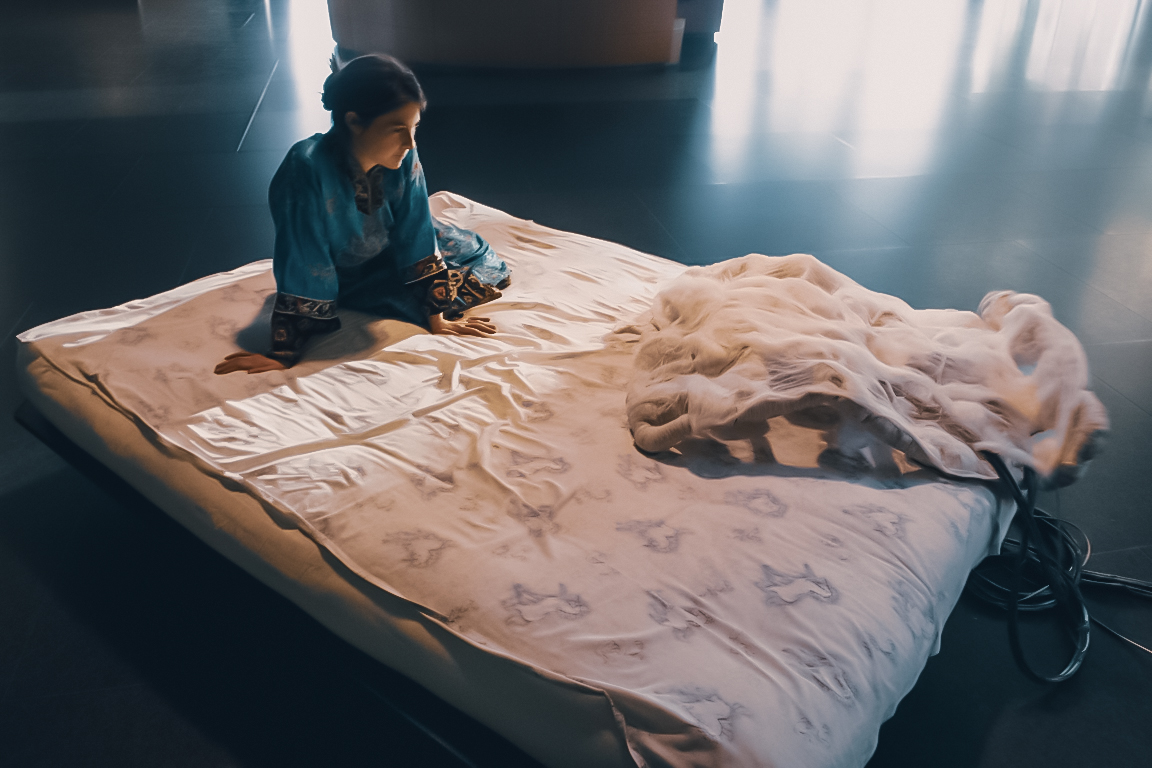
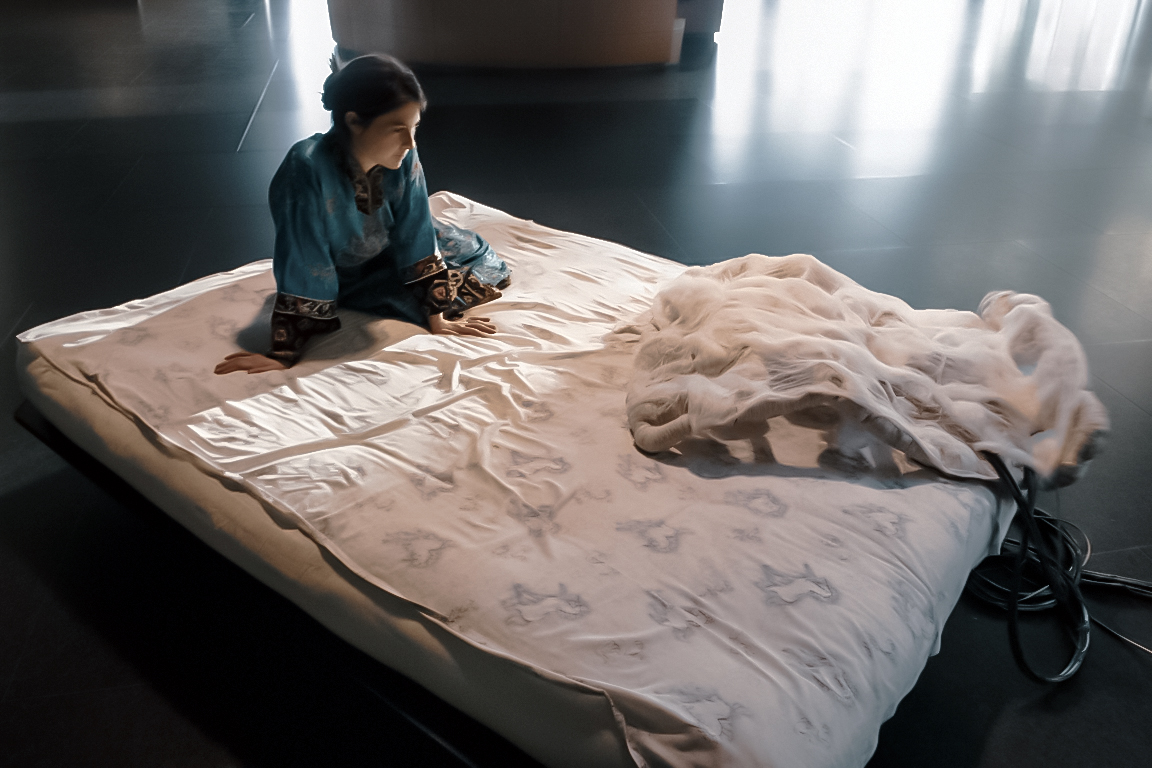
Add custom poster support to VideoEmbed and use it for Flux case study
Also update blanket portfolio image and adjust facade thumb positioning.

diff --git a/src/components/elements/VideoEmbed.js b/src/components/elements/VideoEmbed.js
@@ -8,11 +8,12 @@ const getYouTubeId = (url) => {
 
 const withAutoplay = (url) => `${url}${url.includes("?") ? "&" : "?"}autoplay=1`;
 
-const VideoEmbed = ({ embedId, className }) => {
+const VideoEmbed = ({ embedId, className, posterSrc }) => {
   const videoId = getYouTubeId(embedId);
   const [isPlaying, setIsPlaying] = useState(!videoId);
   const [thumbSrc, setThumbSrc] = useState(
-    videoId ? `https://img.youtube.com/vi/${videoId}/maxresdefault.jpg` : null
+    posterSrc ||
+      (videoId ? `https://img.youtube.com/vi/${videoId}/maxresdefault.jpg` : null)
   );
 
   const wrapperClass = `video-responsive${className ? ` ${className}` : ""}`;
@@ -30,9 +31,11 @@ const VideoEmbed = ({ embedId, className }) => {
             src={thumbSrc}
             alt=""
             className="video-facade-thumb"
-            onError={() =>
-              setThumbSrc(`https://img.youtube.com/vi/${videoId}/hqdefault.jpg`)
-            }
+            onError={() => {
+              if (!posterSrc) {
+                setThumbSrc(`https://img.youtube.com/vi/${videoId}/hqdefault.jpg`);
+              }
+            }}
           />
           <span className="video-facade-play" aria-hidden="true" />
         </button>
@@ -58,6 +61,7 @@ const VideoEmbed = ({ embedId, className }) => {
 VideoEmbed.propTypes = {
   embedId: PropTypes.string.isRequired,
   className: PropTypes.string,
+  posterSrc: PropTypes.string,
 };
 
 export default VideoEmbed;

diff --git a/src/views/Flux.js b/src/views/Flux.js
@@ -12,6 +12,7 @@ const IntroContent = {
   imgSrc: require("./../assets/images/fluxOutline.png"),
   videoUrl: "https://www.youtube.com/embed/Z2o9WQWpmp4?modestbranding=1&rel=0",
   videoClassName: "flux-video-embed",
+  videoPosterSrc: require("./../assets/images/portfolio/flux/flux-4.jpg"),
   hideBackArrow: true,
   hideCaseStudyLabel: true,
 };

diff --git a/src/components/sections/CaseStudy/Intro.js b/src/components/sections/CaseStudy/Intro.js
@@ -48,6 +48,7 @@ const Intro = (IntroContent) => {
                 <VideoEmbed
                   embedId={IntroContent.videoUrl}
                   className={IntroContent.videoClassName}
+                  posterSrc={IntroContent.videoPosterSrc}
                 />
               </div>
             </div>

diff --git a/src/App.css b/src/App.css
@@ -38,6 +38,10 @@
   object-fit: cover;
 }
 
+.flux-video-embed .video-facade-thumb {
+  object-position: right;
+}
+
 .video-facade-play {
   position: absolute;
   top: 50%;
